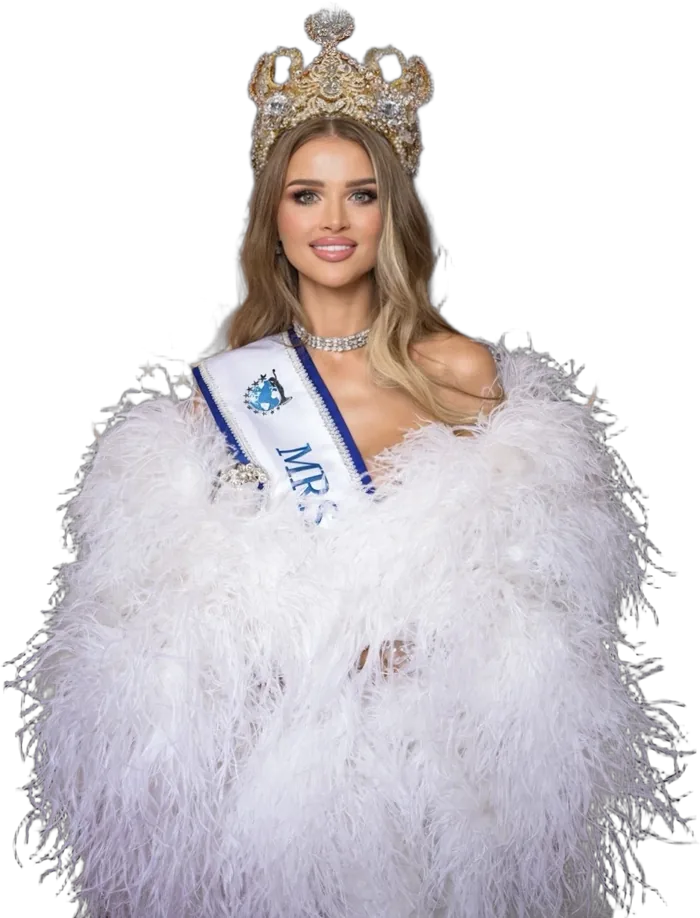
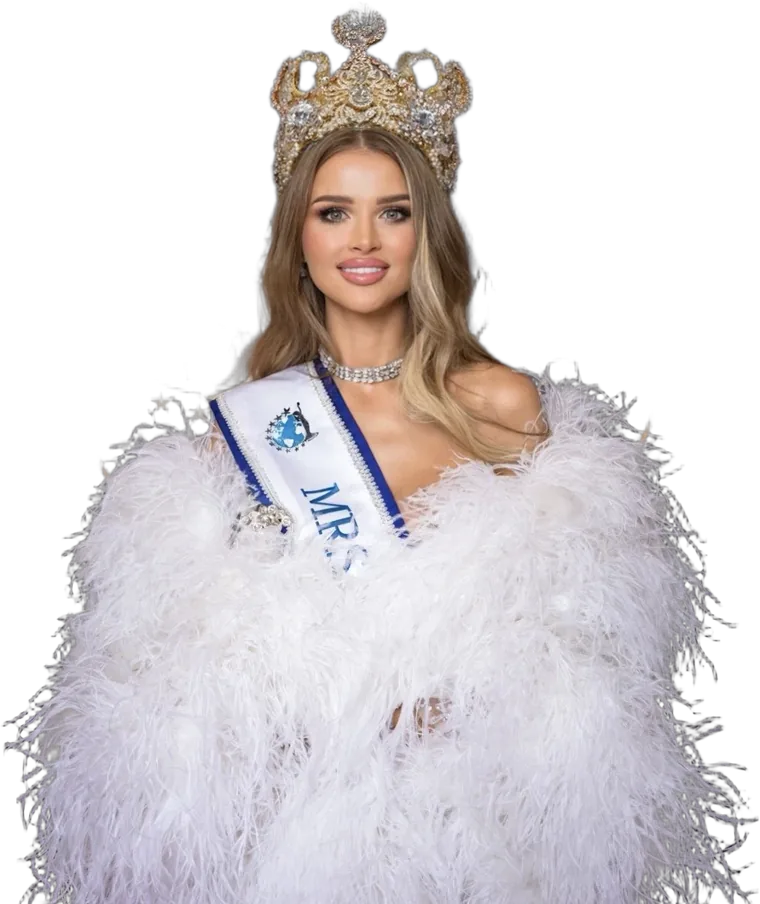
Сайт Краснодарского края: королевы в одном масштабе, блик и искры
Фото обрезаны так, чтобы лица были одного размера, фигуры одной
высоты (центр выделяет пьедестал). По фигуре проходит золотой блик,
когда она выходит из тени, на коронах мерцают звёздочки. На телефоне
— групповой кадр: центральная впереди, боковые у краёв.

Claude-Session: https://claude.ai/code/session_01FTWr45mRpaZDmJc9nWkLr5

diff --git a/krasnodar-site/index.html b/krasnodar-site/index.html
@@ -264,9 +264,23 @@ body::after {
 .crowns__head .kicker::after { content: ""; width: 34px; height: 1px; background: currentColor; }
 .crowns__stage { flex: 1; display: grid; grid-template-columns: 1fr 1.15fr 1fr; align-items: end; gap: clamp(8px, 3vw, 50px); margin-top: clamp(16px, 3vh, 34px); }
 .queen { display: flex; flex-direction: column; align-items: center; min-width: 0; }
-.queen__fig { position: relative; width: 100%; height: min(40svh, 480px); display: flex; justify-content: center; align-items: flex-end; }
-.queen--miss .queen__fig { height: min(45svh, 530px); }
-.queen__fig img { position: absolute; bottom: 0; left: 50%; translate: -50% 0; height: 100%; width: auto; max-width: 118%; object-fit: contain; object-position: 50% 100%; }
+.queen__fig { position: relative; width: 100%; height: min(43svh, 500px); display: flex; justify-content: center; align-items: flex-end; }
+.queen--miss .queen__fig { height: min(43svh, 500px); } /* все три в одном масштабе — центр выделен пьедесталом */
+.queen__body { position: absolute; bottom: 0; left: 50%; translate: -50% 0; height: 100%; aspect-ratio: var(--ar); }
+.queen__dark { display: block; width: 100%; height: 100%; }
+.queen__lit { position: absolute; inset: 0; width: 100%; height: 100%; }
+/* золотой отблеск, проходящий по фигуре (вырезан по её силуэту) */
+.queen__shine { position: absolute; inset: 0; pointer-events: none;
+  -webkit-mask: var(--cut) center / 100% 100% no-repeat; mask: var(--cut) center / 100% 100% no-repeat;
+  background: linear-gradient(105deg, transparent 38%, rgba(255, 236, 190, .65) 50%, transparent 62%) 160% 0 / 300% 100% no-repeat; mix-blend-mode: screen; }
+/* звёздочки, мерцающие на короне */
+.queen__glint { position: absolute; left: 44%; top: 2%; width: 22px; height: 22px; pointer-events: none; opacity: 0;
+  background: radial-gradient(circle, #fff 0, #ffe7b0 30%, transparent 70%);
+  clip-path: polygon(50% 0, 56% 44%, 100% 50%, 56% 56%, 50% 100%, 44% 56%, 0 50%, 44% 44%); }
+.queen__glint--2 { left: 58%; top: 7%; width: 14px; height: 14px; }
+.queen.is-lit .queen__glint { animation: glint 2.6s ease-in-out infinite; }
+.queen.is-lit .queen__glint--2 { animation-delay: 1.1s; }
+@keyframes glint { 0%, 100% { opacity: 0; transform: scale(.3) rotate(0); } 45% { opacity: 1; transform: scale(1) rotate(45deg); } 70% { opacity: 0; } }
 /* силуэт: та же фигура, залитая тёмным, с тонкой золотой кромкой (фильтр статичный — анимируется только прозрачность) */
 .queen__dark { filter: brightness(0) drop-shadow(0 0 1px rgba(232, 196, 124, .9)) drop-shadow(0 0 14px rgba(190, 24, 46, .5)); }
 .queen__beam { position: absolute; left: 50%; bottom: 0; width: 180%; height: 140%; translate: -50% 0; pointer-events: none;
@@ -306,7 +320,7 @@ body::after {
 .queen--miss .queen__podium { height: 50px; width: 88%; }
 .queen--miss .queen__podium span { font-size: 1.3rem; }
 /* низ фигуры мягко уходит в пьедестал */
-.queen__fig img { -webkit-mask-image: linear-gradient(180deg, #000 88%, transparent); mask-image: linear-gradient(180deg, #000 88%, transparent); }
+.queen__body { -webkit-mask-image: linear-gradient(180deg, #000 88%, transparent); mask-image: linear-gradient(180deg, #000 88%, transparent); }
 .queen__num { display: block; font: 500 .7rem/1 var(--text); letter-spacing: .3em; color: var(--gold); }
 .queen__cap h3 { margin: 8px 0 4px; font-size: clamp(1.5rem, 2.6vw, 2.4rem); line-height: 1.05; background: var(--metal); -webkit-background-clip: text; background-clip: text; color: transparent; }
 .queen__age { font: 500 .72rem/1 var(--text); letter-spacing: .22em; text-transform: uppercase; color: var(--cream); }
@@ -315,8 +329,12 @@ body::after {
 @media (min-width: 761px) and (max-height: 800px) { .crowns__note { display: none; } } /* на невысоких ноутбуках не помещается */
 @media (max-width: 760px) {
   .crowns__stage { grid-template-columns: 1fr 1.15fr 1fr; gap: 4px; }
-  .queen__fig { height: 32svh; }
-  .queen--miss .queen__fig { height: 37svh; }
+  .queen__fig { height: 27svh; }
+  .queen--miss .queen__fig { height: 27svh; }
+  /* на узком экране — групповой кадр: центральная впереди, боковые прижаты к краям экрана */
+  .queen--miss { position: relative; z-index: 2; }
+  .queen--young .queen__body { left: 0; translate: 0 0; }
+  .queen--mrs .queen__body { left: auto; right: 0; translate: 0 0; }
   .crowns__in { padding-bottom: 96px; } /* место под нижнюю кнопку «Подать анкету» */
   .queen__cap h3 { font-size: 1.15rem; }
   .queen__age { font-size: .56rem; letter-spacing: .14em; }
@@ -645,8 +663,12 @@ body::after {
         <article class="queen queen--young">
           <div class="queen__fig">
             <i class="queen__beam" aria-hidden="true"></i>
-            <img class="queen__dark" src="images/cut-young.webp" alt="" aria-hidden="true">
-            <img class="queen__lit" src="images/cut-young.webp" alt="Победительница в категории «Юная Мисс» в розовой короне">
+            <div class="queen__body" style="--ar: 672 / 1000">
+              <img class="queen__dark" src="images/cut-young.webp" alt="" aria-hidden="true">
+              <img class="queen__lit" src="images/cut-young.webp" alt="Победительница в категории «Юная Мисс» в розовой короне">
+              <i class="queen__shine" style="--cut: url(images/cut-young.webp)" aria-hidden="true"></i>
+              <i class="queen__glint" aria-hidden="true"></i><i class="queen__glint queen__glint--2" aria-hidden="true"></i>
+            </div>
           </div>
           <div class="queen__podium" aria-hidden="true"><span>I</span></div>
           <div class="queen__cap"><h3>Юная Мисс</h3><span class="queen__age">14–17 лет</span><p>Первые шаги на сцене. Согласие даёт родитель.</p></div>
@@ -654,8 +676,12 @@ body::after {
         <article class="queen queen--miss">
           <div class="queen__fig">
             <i class="queen__beam" aria-hidden="true"></i>
-            <img class="queen__dark" src="images/cut-miss.webp" alt="" aria-hidden="true">
-            <img class="queen__lit" src="images/cut-miss.webp" alt="Победительница «Мисс Россия Краснодар» в короне и ленте">
+            <div class="queen__body" style="--ar: 673 / 1000">
+              <img class="queen__dark" src="images/cut-miss.webp" alt="" aria-hidden="true">
+              <img class="queen__lit" src="images/cut-miss.webp" alt="Победительница «Мисс Россия Краснодар» в короне и ленте">
+              <i class="queen__shine" style="--cut: url(images/cut-miss.webp)" aria-hidden="true"></i>
+              <i class="queen__glint" aria-hidden="true"></i><i class="queen__glint queen__glint--2" aria-hidden="true"></i>
+            </div>
           </div>
           <div class="queen__podium" aria-hidden="true"><span>II</span></div>
           <div class="queen__cap"><h3>Мисс</h3><span class="queen__age">18–35 лет</span><p>Для тех, кто готов заявить о себе.</p></div>
@@ -663,8 +689,12 @@ body::after {
         <article class="queen queen--mrs">
           <div class="queen__fig">
             <i class="queen__beam" aria-hidden="true"></i>
-            <img class="queen__dark" src="images/cut-mrs.webp" alt="" aria-hidden="true">
-            <img class="queen__lit" src="images/cut-mrs.webp" alt="Победительница в категории «Миссис» в золотой короне и белых перьях">
+            <div class="queen__body" style="--ar: 760 / 904">
+              <img class="queen__dark" src="images/cut-mrs.webp" alt="" aria-hidden="true">
+              <img class="queen__lit" src="images/cut-mrs.webp" alt="Победительница в категории «Миссис» в золотой короне и белых перьях">
+              <i class="queen__shine" style="--cut: url(images/cut-mrs.webp)" aria-hidden="true"></i>
+              <i class="queen__glint" aria-hidden="true"></i><i class="queen__glint queen__glint--2" aria-hidden="true"></i>
+            </div>
           </div>
           <div class="queen__podium" aria-hidden="true"><span>III</span></div>
           <div class="queen__cap"><h3>Миссис</h3><span class="queen__age">20–45 лет</span><p>Для женщин, которые вдохновляют.</p></div>
@@ -1147,7 +1177,8 @@ const SITE = {
        .to($(".queen__lit", q), { opacity: 1, duration: .5 }, at + .2)                                    // фигура выходит из тени
        .fromTo($(".queen__fig", q), { scale: 1 }, { scale: 1.06, duration: .5, yoyo: true, repeat: 1, transformOrigin: "50% 100%" }, at + .2)
        .to($(".queen__cap", q), { opacity: 1, y: 0, duration: .4 }, at + .45)
-       .call(() => rain(q, ctl.scrollTrigger), null, at + .25);
+       .fromTo($(".queen__shine", q), { backgroundPosition: "160% 0" }, { backgroundPosition: "-60% 0", duration: .7, ease: "none" }, at + .3)
+       .call(() => { q.classList.add("is-lit"); rain(q, ctl.scrollTrigger); }, null, at + .25);
     if (i > 0) ctl.to($(".queen__beam", queens[i - 1]), { opacity: .35, duration: .4 }, at);              // предыдущий софит приглушается
   });
   ctl.to(queens.map(q => $(".queen__beam", q)), { opacity: .6, duration: .4 }, 4.4)
